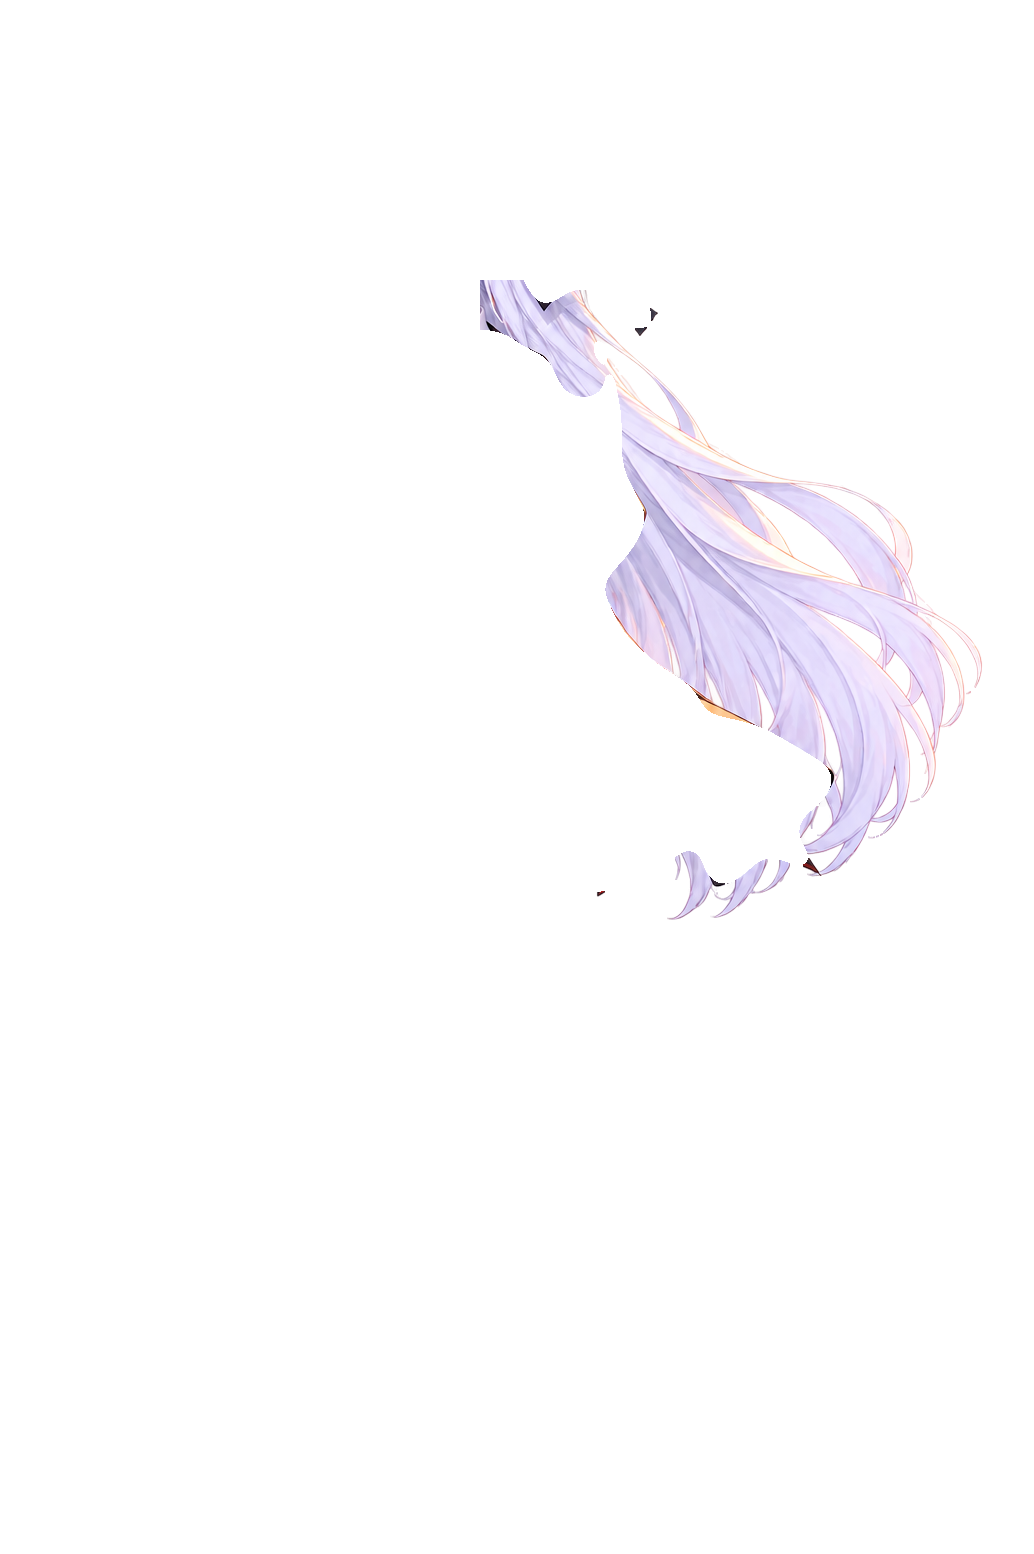
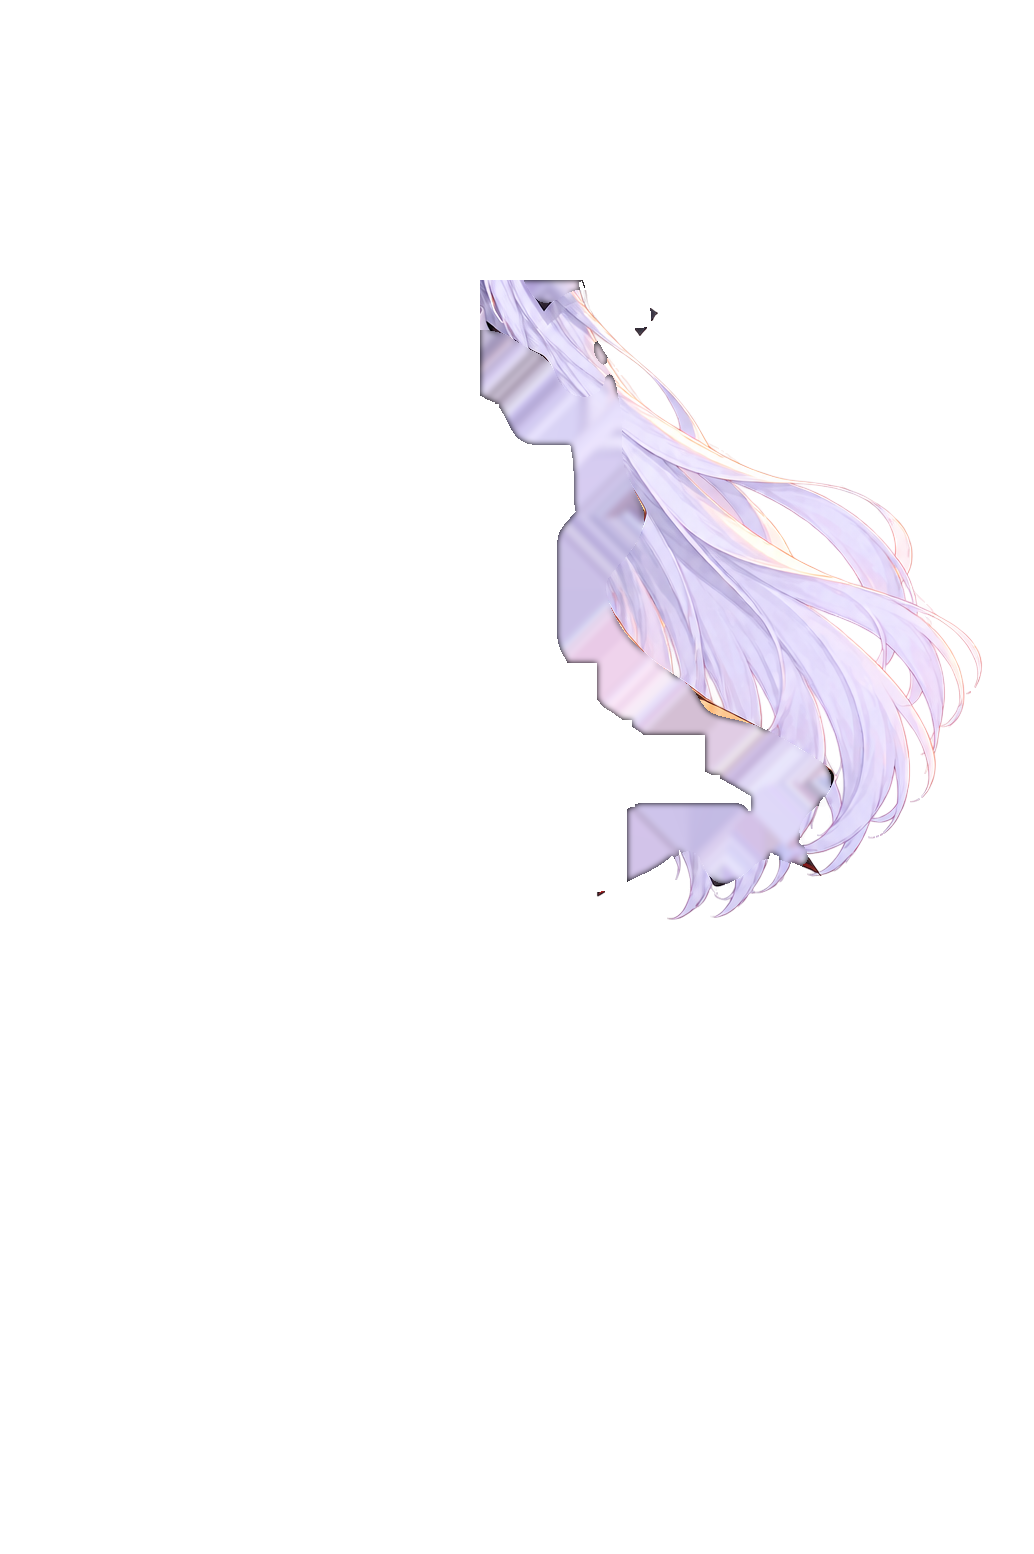
fix: close the gaps in the heroine's swinging hair and calm rapid taps
- The painting never shows the back hair where the coat and sleeve cover
  it, so a swing outwards opened a gap between body and hair. The hair
  layer now continues about 48px under them, grown from clean lavender
  strands and softened, so the hair reads as one piece when it moves.
- The trailing drop is weighted like the bend, so the root never moves.
- The swing eases into its limit instead of stopping hard there.
- Taps during a hop, or within 0.3 s after it, no longer restart the hop
  or flip her head; they only advance her line.

Changed region(s): [[0.4642, 0.1544, 0.8046, 0.5869]]

diff --git a/rogue-like-play/tools/build_lobby_hero.py b/rogue-like-play/tools/build_lobby_hero.py
@@ -45,6 +45,8 @@ BODY_BOXES = [(470, 360, 580, 470), (440, 690, 620, 840), (440, 820, 640, 940)]
 HAND = (420, 280, 580, 470)
 # Where the body stops keeping the hair's pixels under the root.
 ROOT_OVERLAP = 300.0
+# How far the hair continues, hidden, under the coat and sleeve.
+UNDER_REACH = 48
 FRONT_HAIR = [(215, 190, 335, 700)]
 FRONT_HAIR_EXCLUDE = [(225, 380, 315, 450)]
 HAIR_ROOT, HAIR_TIP = 230.0, 820.0
@@ -109,6 +111,41 @@ def back_hair(figure: Image.Image) -> np.ndarray:
 	hair = (a > 0.02) & inside(shape, [BACK_HAIR_ZONE]) & ~body
 	cleaned = Image.fromarray((hair * 255).astype(np.uint8)).filter(ImageFilter.MinFilter(3)).filter(ImageFilter.MaxFilter(3))
 	return np.array(cleaned).astype(np.float32) / 255.0
+
+
+# The painting never shows the hair where the coat and sleeve cover it, so a
+# swing would open a gap between them. Grow the hair's colours into the
+# covered area, a pixel ring per step, so the layer continues under the body.
+def hair_under_body(figure: Image.Image, hair: np.ndarray) -> Image.Image:
+	rgba = np.array(figure).astype(np.float32) / 255.0
+	colour = rgba[..., :3]
+	r, g, b, a, light = channels(figure)
+	shape = hair.shape
+	# Grow only from clean lavender strands, not from edges tinted by the
+	# coat's rim light, or orange streaks would spread under the cloth.
+	filled = (hair > 0.5) & (a > 0.9) & (light > 0.6) & ((b - g) > 0.03) & ((b - r) > -0.02)
+	covered = (a > 0.5) & (hair <= 0.5) & inside(shape, [BACK_HAIR_ZONE])
+	result = colour * filled[..., None]
+	for _ in range(UNDER_REACH):
+		total = np.zeros_like(result)
+		count = np.zeros(shape, dtype=np.float32)
+		for dy in (-1, 0, 1):
+			for dx in (-1, 0, 1):
+				if dx == 0 and dy == 0:
+					continue
+				neighbour = np.roll(np.roll(filled, dy, axis=0), dx, axis=1)
+				total += np.roll(np.roll(result, dy, axis=0), dx, axis=1) * neighbour[..., None]
+				count += neighbour
+		grow_now = covered & ~filled & (count > 0)
+		result[grow_now] = total[grow_now] / count[grow_now][:, None]
+		filled = filled | grow_now
+	grown = filled & covered
+	# Soften the grown colours so they read as hair in shadow, not streaks.
+	soft = np.array(Image.fromarray((np.clip(result, 0.0, 1.0) * 255).astype(np.uint8)).filter(ImageFilter.GaussianBlur(3))).astype(np.float32) / 255.0
+	result = np.where(grown[..., None], soft, colour)
+	alpha = np.where(hair > 0.5, a * hair, grown.astype(np.float32))
+	out = np.dstack([result, alpha])
+	return Image.fromarray((np.clip(out, 0.0, 1.0) * 255).astype(np.uint8), "RGBA")
 
 
 def layer(figure: Image.Image, weight: np.ndarray | float) -> Image.Image:
@@ -185,7 +222,7 @@ def main() -> None:
 	ys = np.arange(figure.height, dtype=np.float32)[:, None]
 	overlap = 1.0 - ramp(ys, BACK_HAIR_ZONE[1] + 10.0, ROOT_OVERLAP)
 	framed(layer(figure, 1.0 - hair * (1.0 - overlap))).save(OUTPUT / "mio_lobby.png", optimize=True)
-	framed(layer(figure, hair)).save(OUTPUT / "mio_lobby_hair.png", optimize=True)
+	framed(hair_under_body(figure, hair)).save(OUTPUT / "mio_lobby_hair.png", optimize=True)
 	framed(motion(figure)).save(OUTPUT / "mio_lobby_motion.png", optimize=True)
 	eye_atlas(box).save(OUTPUT / "mio_lobby_eyes.png", optimize=True)
 	print("figure", figure.size, "framed", framed(figure).size)
